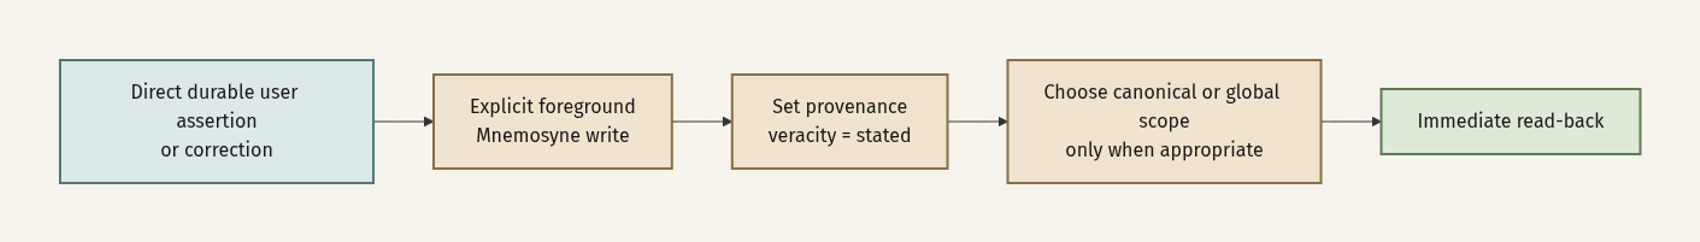
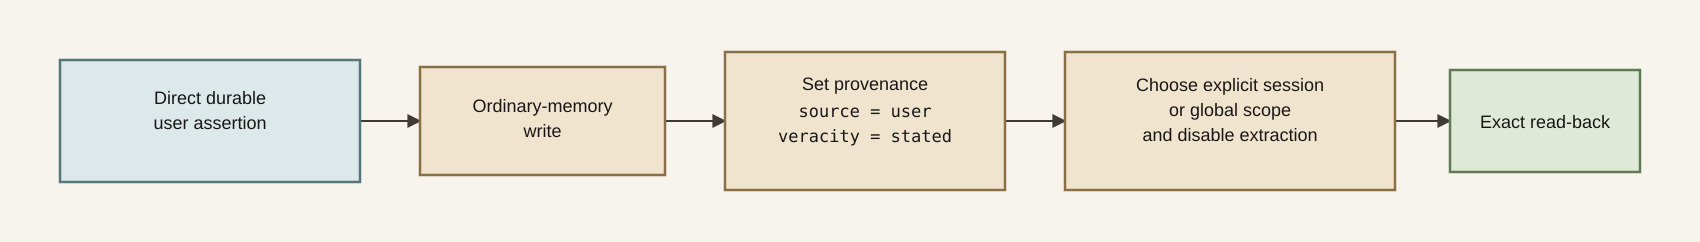
Update Mnemosyne mutation policy field note

Changed region(s): [[0.0312, 0.2025, 0.9665, 0.8099], [0.0935, 0.5785, 0.1559, 0.6653], [0.0935, 0.4628, 0.1559, 0.5496]]

diff --git a/content/posts/optimal-hermes-mnemosyne-memory-architecture.md b/content/posts/optimal-hermes-mnemosyne-memory-architecture.md
@@ -6,7 +6,7 @@ deck: "How to combine Hermes Agent and Mnemosyne without transcript pollution, c
 slug: "optimal-hermes-mnemosyne-memory-architecture"
 file: "08"
 publishedAt: "2026-08-29T03:10:16.000Z"
-updatedAt: "2026-08-29T05:13:21.000Z"
+updatedAt: "2026-08-31T04:31:46.000Z"
 category: "AI Agent Infrastructure"
 tags:
   - "Hermes Agent"
@@ -32,7 +32,7 @@ The missing piece is ownership. Each system needs a narrow job, and the bridge b
 
 ![Flowchart showing authoritative policy passing through Hermes Agent and a verified learning bridge into Mnemosyne](/images/posts/hermes-mnemosyne-architecture.jpg "Hermes and Mnemosyne memory architecture")
 
-The project binding, trajectory extraction, deterministic verification, mutation staging, and fingerprint deduplication in this diagram are custom bridge behavior. The stock Hermes and Mnemosyne integration does not add those controls by itself.
+The project binding, trajectory extraction, deterministic verification, proportionate mutation controls, and fingerprint deduplication in this diagram are custom bridge behavior. The stock Hermes and Mnemosyne integration does not add those controls by itself.
 
 The ownership rules are strict:
 
@@ -72,7 +72,7 @@ must not disappear because no tool trajectory occurred. The operating rule is na
 
 ![Flowchart for explicitly storing a durable user assertion with stated provenance, appropriate scope, and immediate read-back](/images/posts/hermes-mnemosyne-durable-assertion.jpg "Intentional durable assertion capture")
 
-This is intentional capture, not transcript ingestion. If the statement is ambiguous, temporary, or inferred, the agent should stage it or omit it.
+This is intentional capture, not transcript ingestion. If a potentially durable statement is ambiguous, the agent should ask for clarification rather than stage it or silently omit it. Temporary information and obvious noise should not be stored.
 
 ## Make Mnemosyne the only durable fact store
 
@@ -207,11 +207,10 @@ The policy I use is:
 | --- | --- |
 | Raw conversation autosave | Disabled |
 | Verified project episode | Automatic after evidence, secret, scope, and dedup gates |
-| Direct durable user fact | Foreground write with read-back |
-| Inferred global or canonical fact | Stage |
-| Canonical supersession | Exact foreground request or stage |
-| Update, invalidate, or forget | Read target first; exact foreground approval |
-| Shared-memory write | Disabled |
+| Direct user-stated ordinary memory | Automatic with explicit scope, `source="user"`, `veracity="stated"`, extraction disabled, and exact read-back |
+| Ambiguous ordinary memory | Request clarification; do not stage or silently omit |
+| Update or forget | Stage; require exact foreground `APPLY <pending_id>` and deterministic read-back |
+| Canonical, graph, shared-memory, and other unsupported mutations | Block |
 | Skill modification | Report and staged diff only |
 | Secret-bearing content | Reject |
 
@@ -370,7 +369,7 @@ No. Profile isolation separates Hermes profiles or users into different Mnemosyn
 
 ### Which parts require the custom bridge?
 
-Stock integration provides the provider lifecycle, durable memory, and Mnemosyne tools. Project-bound execution episodes, deterministic trajectory extraction, cross-project exclusion, mutation staging, and replay fingerprints require the custom bridge described here.
+Stock integration provides the provider lifecycle, durable memory, and Mnemosyne tools. Project-bound execution episodes, deterministic trajectory extraction, cross-project exclusion, proportionate mutation controls, and replay fingerprints require the custom bridge described here.
 
 ### Is there a public bridge implementation?
 
